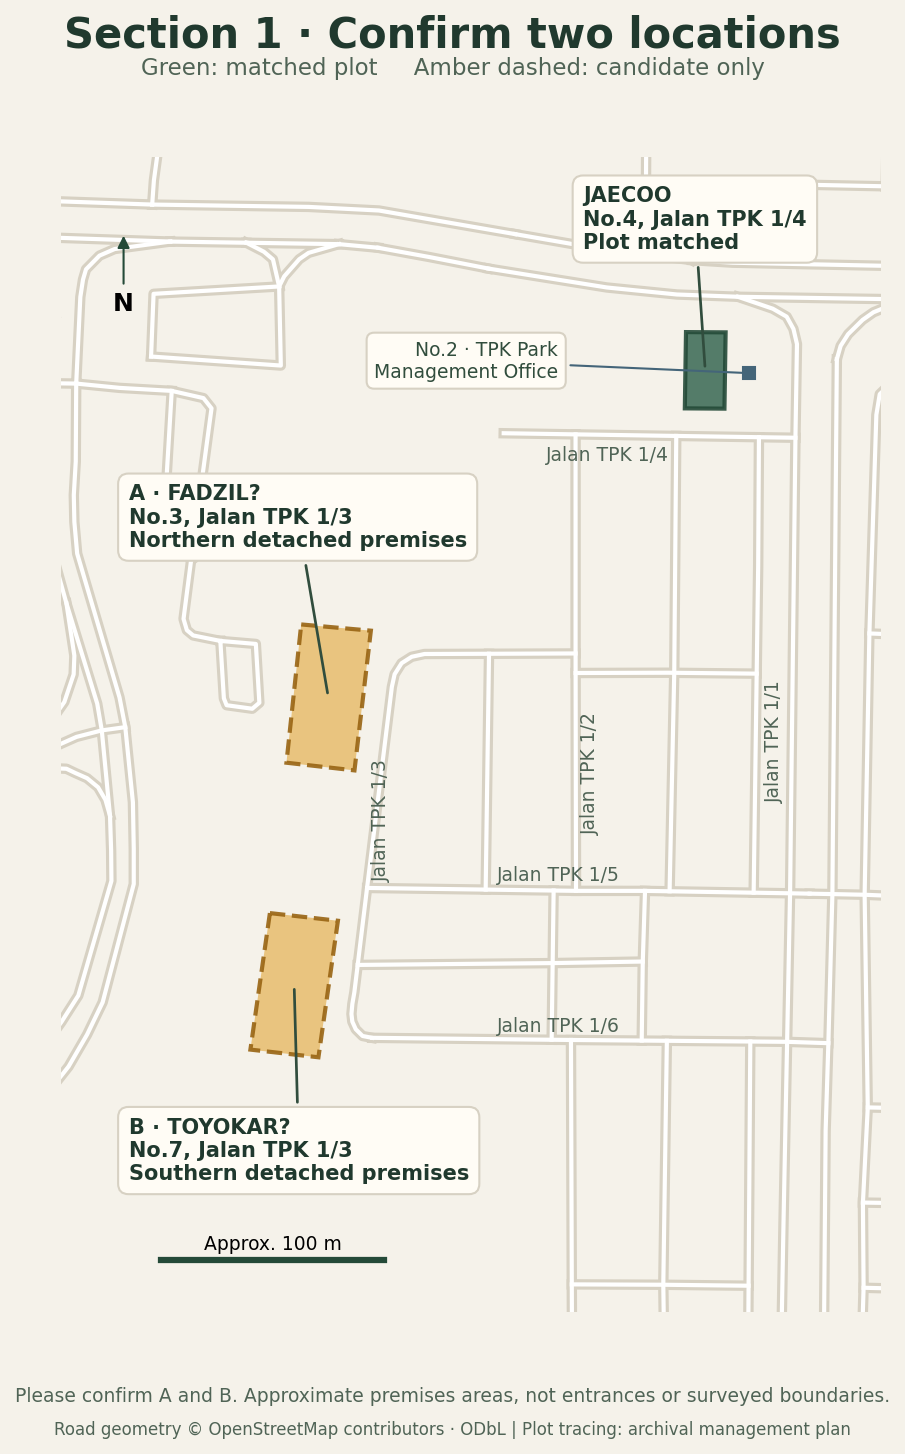
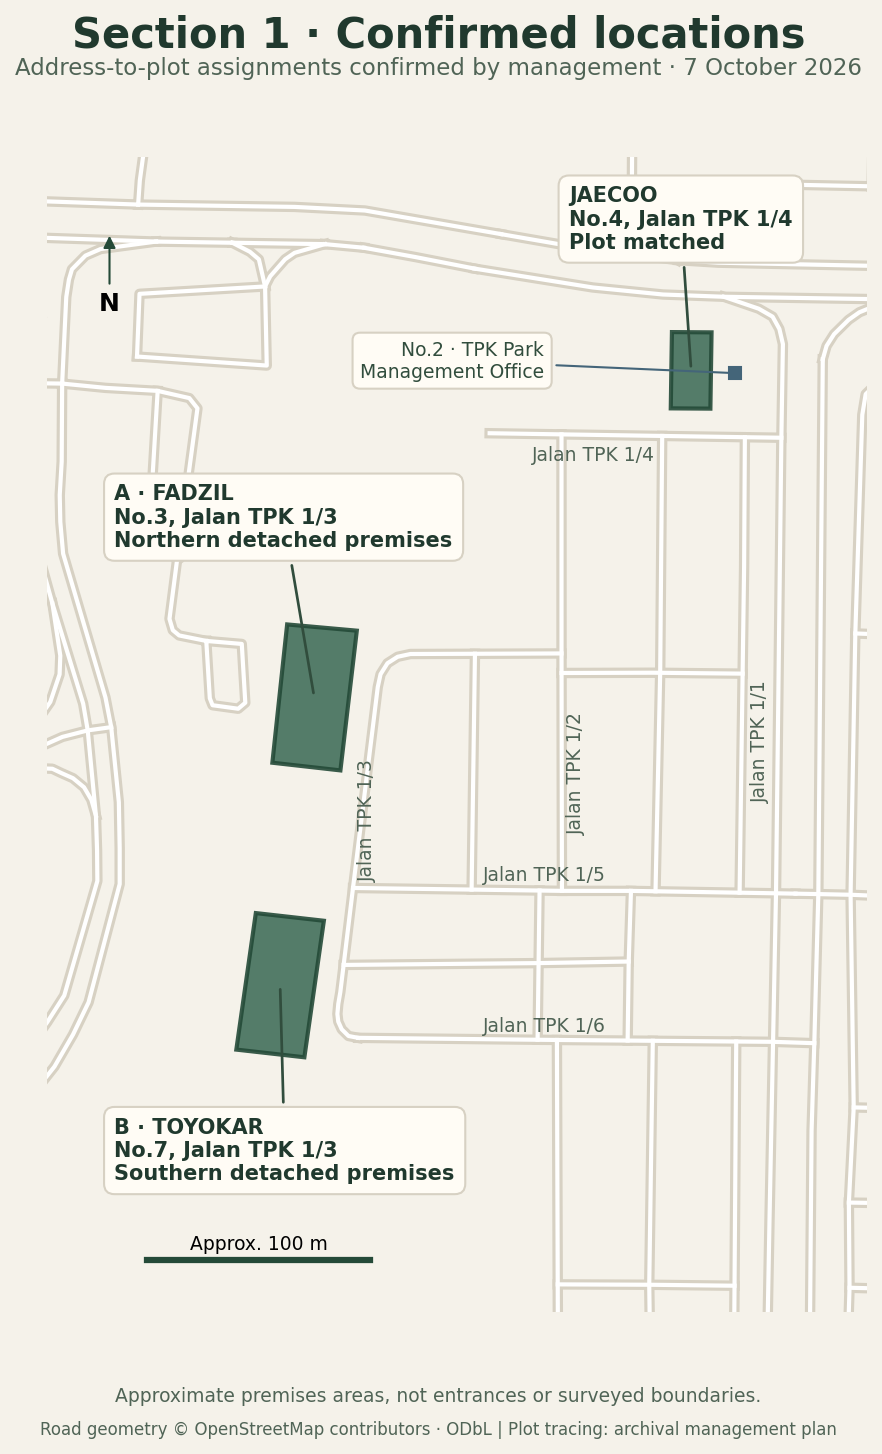
Confirm Fadzil and Toyokar premises and complete directory map coverage

diff --git a/scripts/map/render-section1-review.py b/scripts/map/render-section1-review.py
@@ -14,7 +14,7 @@ for f in s['features']+s['candidates']:
  confirmed=f['properties']['addressMatchConfirmed'];ax.add_patch(Polygon(f['geometry']['coordinates'][0],facecolor='#426f5b' if confirmed else '#e8bf73',edgecolor='#244a38' if confirmed else '#986413',linestyle='-' if confirmed else '--',linewidth=2,zorder=3,alpha=.9))
 def centre(f):
  g=f['geometry']['coordinates'][0][:-1];return tuple(sum(x[i] for x in g)/len(g) for i in range(2))
-labels=[(s['features'][0],'JAECOO\nNo.4, Jalan TPK 1/4\nPlot matched',(101.63475,3.04955)),(s['candidates'][0],'A · FADZIL?\nNo.3, Jalan TPK 1/3\nNorthern detached premises',(101.63292,3.04835)),(s['candidates'][1],'B · TOYOKAR?\nNo.7, Jalan TPK 1/3\nSouthern detached premises',(101.63292,3.0458))]
+labels=[(s['features'][0],'JAECOO\nNo.4, Jalan TPK 1/4\nPlot matched',(101.63475,3.04955)),(s['features'][1],'A · FADZIL\nNo.3, Jalan TPK 1/3\nNorthern detached premises',(101.63292,3.04835)),(s['features'][2],'B · TOYOKAR\nNo.7, Jalan TPK 1/3\nSouthern detached premises',(101.63292,3.0458))]
 for f,text,pos in labels:
  ax.annotate(text,xy=centre(f),xytext=pos,fontsize=10,fontweight='bold',color='#20392e',ha='left',va='center',arrowprops={'arrowstyle':'-','color':'#314d3d','lw':1.3},bbox={'boxstyle':'round,pad=.5','fc':'#fffcf5','ec':'#d7d1c3'},zorder=5)
 for text,xy,rot in [('Jalan TPK 1/4',(101.63485,3.0486),0),('Jalan TPK 1/3',(101.63394,3.04713),90),('Jalan TPK 1/5',(101.63465,3.04691),0),('Jalan TPK 1/6',(101.63465,3.0463),0),('Jalan TPK 1/2',(101.63478,3.04732),90),('Jalan TPK 1/1',(101.63552,3.04745),90)]:ax.text(*xy,text,fontsize=9,color='#506456',rotation=rot,ha='center',va='center',zorder=4)
@@ -24,8 +24,8 @@ ax.annotate('No.2 · TPK Park\nManagement Office',xy=office,xytext=(101.63465,3.
 ax.annotate('N',xy=(101.6329,3.0495),xytext=(101.6329,3.04918),ha='center',arrowprops={'arrowstyle':'-|>','color':'#244a38'},fontsize=12,fontweight='bold')
 ax.plot([101.63305,101.63395],[3.04536,3.04536],color='#244a38',lw=3);ax.text(101.6335,3.0454,'Approx. 100 m',ha='center',fontsize=9)
 ax.set_xlim(101.63265,101.63595);ax.set_ylim(3.04515,3.0498);ax.set_aspect(1);ax.axis('off')
-fig.suptitle('Section 1 · Confirm two locations',fontsize=20,fontweight='bold',color='#20392e',y=.975)
-fig.text(.5,.935,'Green: matched plot     Amber dashed: candidate only',ha='center',fontsize=11,color='#506456')
-fig.text(.5,.05,'Please confirm A and B. Approximate premises areas, not entrances or surveyed boundaries.',ha='center',fontsize=9,color='#506456')
+fig.suptitle('Section 1 · Confirmed locations',fontsize=20,fontweight='bold',color='#20392e',y=.975)
+fig.text(.5,.935,'Address-to-plot assignments confirmed by management · 7 October 2026',ha='center',fontsize=11,color='#506456')
+fig.text(.5,.05,'Approximate premises areas, not entrances or surveyed boundaries.',ha='center',fontsize=9,color='#506456')
 fig.text(.5,.028,'Road geometry © OpenStreetMap contributors · ODbL | Plot tracing: archival management plan',ha='center',fontsize=8,color='#506456')
 fig.savefig('docs/map-review/section1-confirmation.png',facecolor=fig.get_facecolor(),bbox_inches='tight')

diff --git a/scripts/map/derive-section1-layout.py b/scripts/map/derive-section1-layout.py
@@ -1,4 +1,4 @@
-"""Section 1 plot alignment; candidate assignments stay outside visitor map data."""
+"""Section 1 plot alignment with owner-confirmed address assignments."""
 import numpy as np
 # Pixel controls in the 893x1263 combined site-plan review render.
 controls=[
@@ -19,8 +19,9 @@ def feature(id,number,street,points,source,confirmed):
 # The annotated No.4 layout points to the second plot west of the main entrance.
 # Trace the corresponding whole plot in the combined plan; do not call it a roof outline.
 features=[feature('tpk-1-4-4',4,'Jalan TPK 1/4',[[330,188],[355,187],[355,237],[330,238]],'Owner-confirmed No.4 next to management office No.2 (2026-10-07); annotated management layout + combined site plan + seven OSM junction controls',True)]
-# Unlabelled parcels: inferred ordering only. Review data, never visitor-map assignments.
-candidates=[
- feature('candidate-fadzil',3,'Jalan TPK 1/3',[[90,391],[134,393],[125,485],[82,482]],'Candidate northern detached plot; address-to-plot assignment requires owner confirmation',False),
- feature('candidate-toyokar',7,'Jalan TPK 1/3',[[73,581],[116,584],[105,674],[62,671]],'Candidate southern detached plot; address-to-plot assignment requires owner confirmation',False),
-]
+# Owner explicitly confirmed review A=Fadzil and B=Toyokar on 2026-10-07.
+features.extend([
+ feature('tpk-1-3-3',3,'Jalan TPK 1/3',[[90,391],[134,393],[125,485],[82,482]],'Owner-confirmed review plot A: Fadzil, No.3 (2026-10-07); combined site plan + seven OSM junction controls',True),
+ feature('tpk-1-3-7',7,'Jalan TPK 1/3',[[73,581],[116,584],[105,674],[62,671]],'Owner-confirmed review plot B: Toyokar, No.7 (2026-10-07); combined site plan + seven OSM junction controls',True),
+])
+candidates=[]

diff --git a/scripts/map/derive-building-layout.py b/scripts/map/derive-building-layout.py
@@ -26,4 +26,4 @@ section1=runpy.run_path('scripts/map/derive-section1-layout.py')
 features.extend(section1['features'])
 Path('assets/map/building-premises.geojson').write_text(json.dumps(dict(type='FeatureCollection',description='Approximate archival buildings and premises areas. Current extensions, surveyed boundaries and visitor entrances unverified.',section1Alignment=section1['alignment'],licence='OSM-derived alignment: Open Database Licence (ODbL) 1.0',features=features),separators=(',',':'))+'\n')
 
-Path('docs/map-review/section1-candidates.geojson').write_text(json.dumps(dict(type='FeatureCollection',description='Review only: two unconfirmed address-to-plot assignments. Excluded from visitor map.',features=section1['candidates']),indent=2)+'\n')
+Path('docs/map-review/section1-candidates.geojson').write_text(json.dumps(dict(type='FeatureCollection',description='No outstanding candidates. Owner confirmed A=Fadzil and B=Toyokar on 2026-10-07; both are now in visitor map data.',features=section1['candidates']),indent=2)+'\n')

diff --git a/docs/map-review/README.md b/docs/map-review/README.md
@@ -2,7 +2,7 @@
 
 ## Status and release gate
 
-This preview depicts approximate premises for **32 of 34 businesses**: 20 shoplot businesses and 12 businesses across archival building or premises outlines. Two businesses (Toyokar and Fadzil) retain street-level orientation. All 34 businesses and the separate DRT POI remain searchable. No surveyed entrance coordinates are asserted. Review is still required before production publication.
+This preview depicts approximate premises for **all 34 featured businesses**: 20 shoplot businesses and 14 businesses across archival building or premises outlines. All three Section 1 assignments are confirmed by the owner. DRT remains a separate street-level POI with the confirmed Jazmina frontage description. Premises matching is complete; surveyed entrance coordinates are not asserted. Production publication remains a separate step.
 
 Update 7 October: the existing TPK Ops Hub architectural-plan archive and address-to-bay register have now been recovered; no fresh plan upload is needed. The 29-shoplot / 58-floor mapping is available. Geographic alignment and current entrance positions remain to be established. A screenshot copied from Google Maps is not a substitute for reusable source geometry. No new GBP edits or Maps suggestions were made.
 
@@ -135,3 +135,10 @@ Review diagram: [Section 1 location confirmation](section1-confirmation.png). Ca
 Validation: build and 14 map tests pass. Browser checks pass for Jaecoo selection, address display, candidate exclusion, desktop/mobile layouts and existing map flows. Images: [Jaecoo desktop](jaecoo-desktop.webp), [Jaecoo mobile](jaecoo-mobile.webp). No production publish.
 
 Owner confirmation received 7 October: Jaecoo is No.4 Jalan TPK 1/4, next to the TPK Park Management Office at No.2. The supplied screenshot corroborates that adjacency; no Google imagery or geometry was copied into map assets. Office is shown as a review-diagram reference only.
+
+
+## Final two premises confirmed — 7 October 2026
+
+The owner explicitly confirmed review A as Fadzil and review B as Toyokar, with a supporting screenshot. Fadzil is assigned to No.3 Jalan TPK 1/3, the northern detached premises; Toyokar to No.7, the southern detached premises. These are now visitor-map assignments, superseding the earlier candidate-only notes above. The geometries retain the independently traced archival premises areas and seven-junction OSM alignment; no Google imagery or geometry is redistributed. Owner confirmation establishes which premises, not surveyed boundary/entrance accuracy.
+
+All 34 featured businesses now have premises depictions. The separate DRT POI remains street-level. The review diagram now shows confirmed locations and the candidate register is empty. Build, 14 map tests and browser checks verify Fadzil/Toyokar selection, correct address display, multilingual data and the existing shared-premises flows. No production merge or publish in this step.
